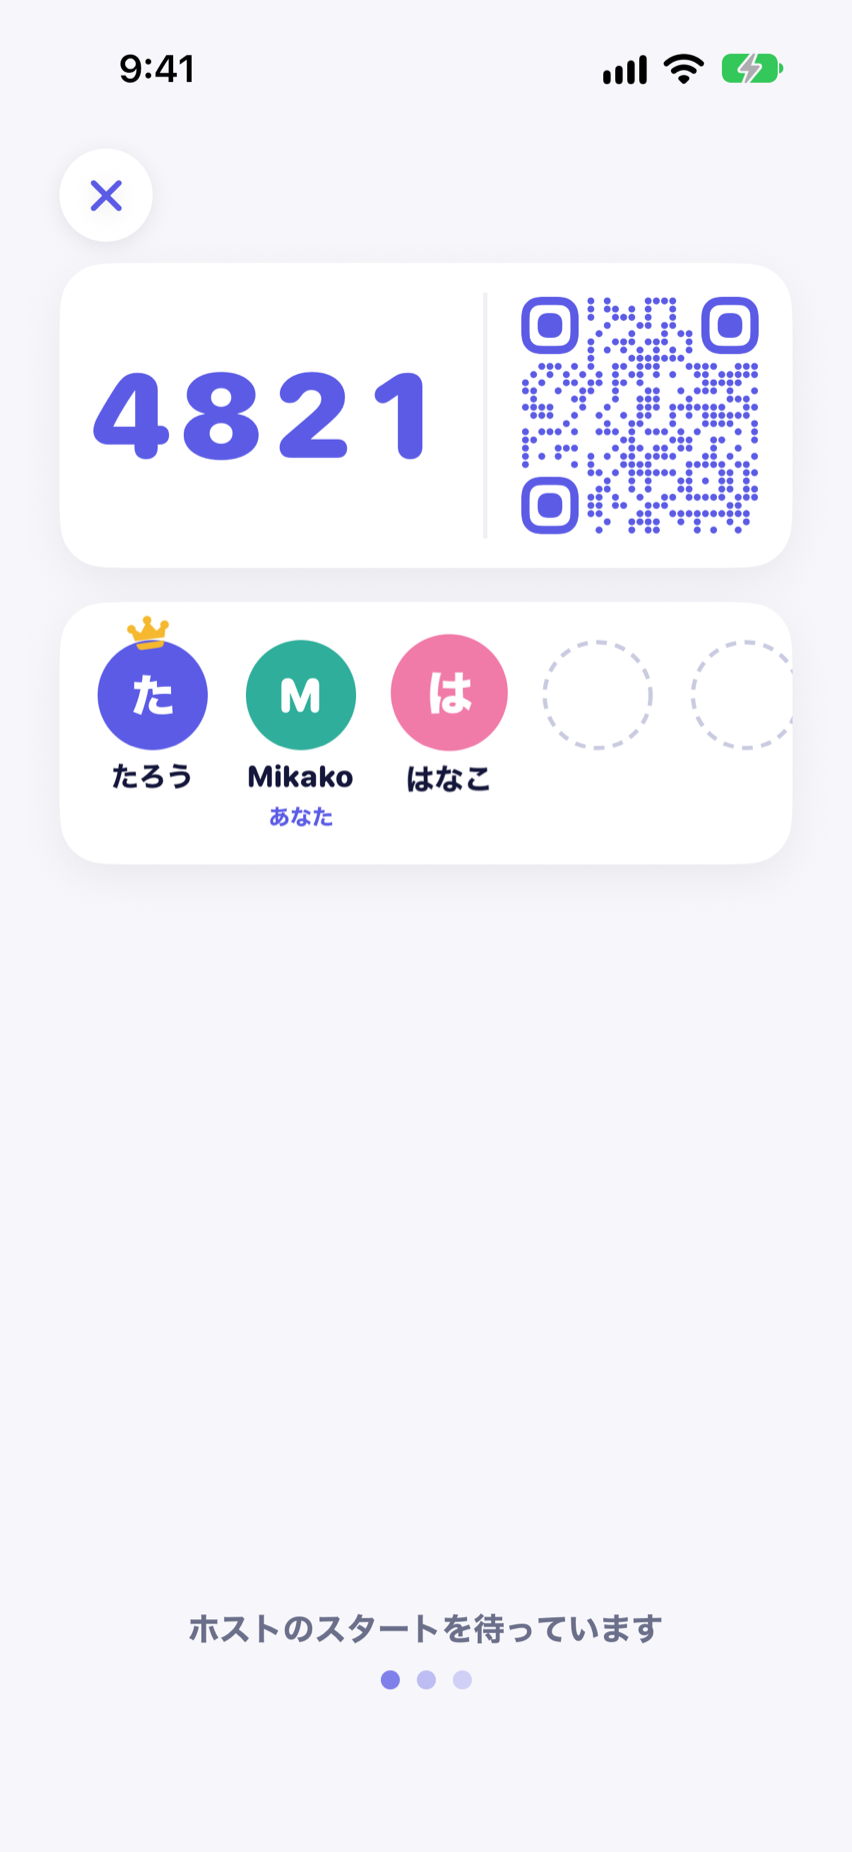
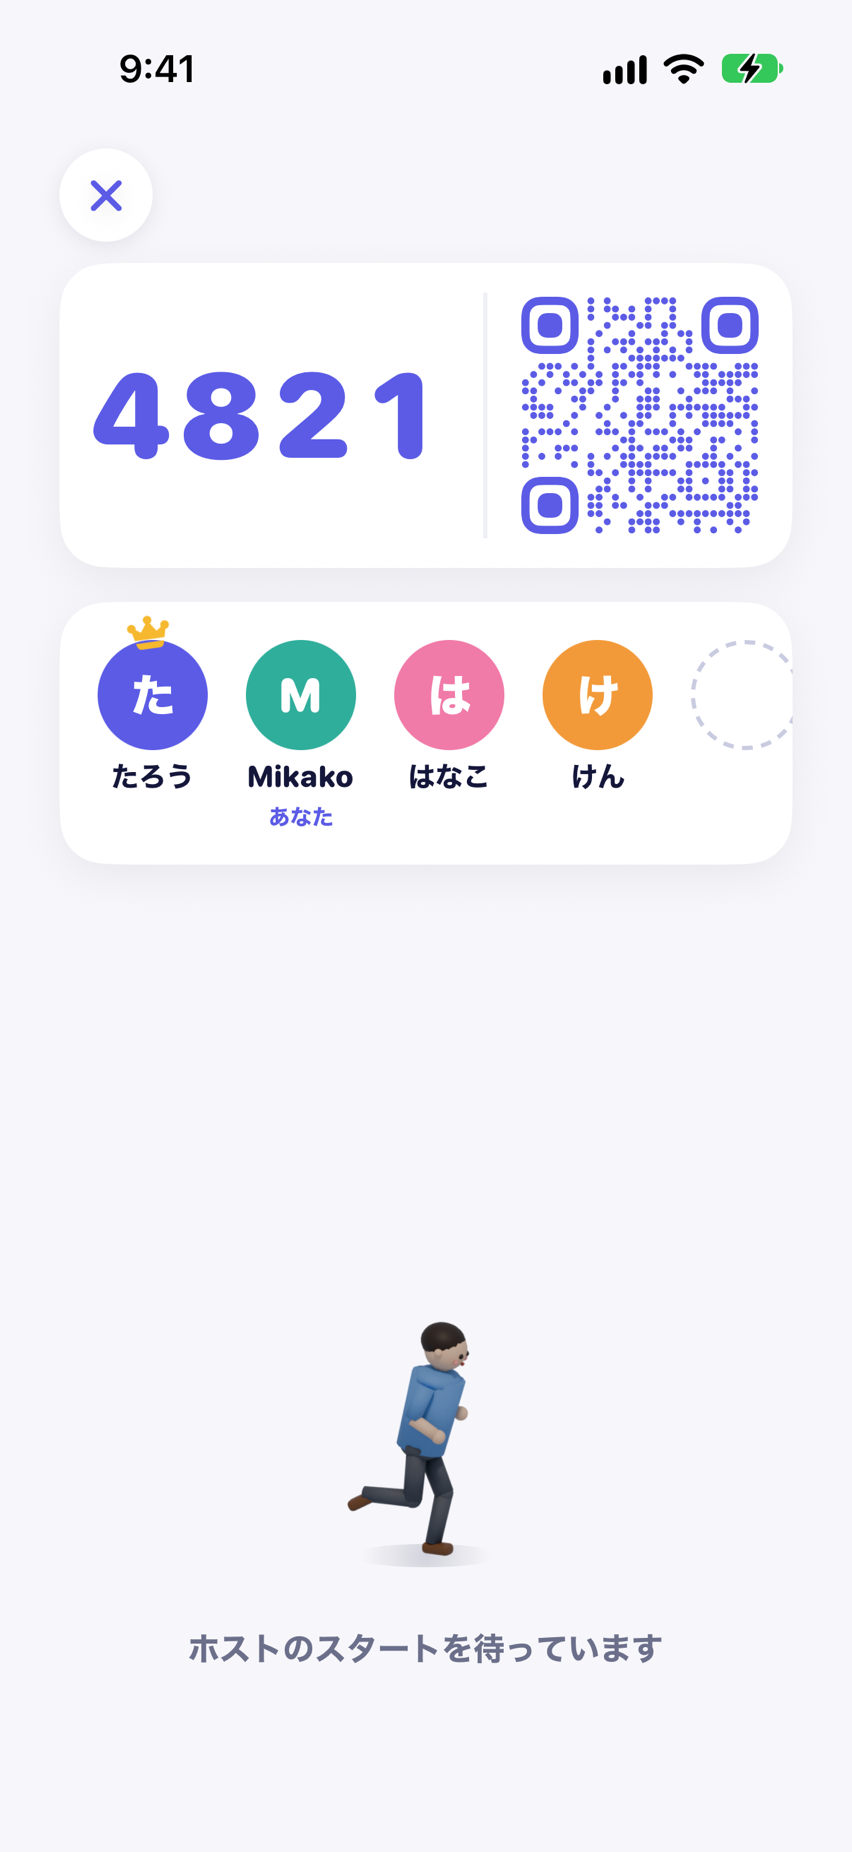
feat(ios): 待合でホストのスタートを待つ参加者に走る人を出す (#133)
## 概要

TestFlight 1.0.1 (4)
をチームで遊んだとき、ホストでない参加者から「待合で何を待っているのか分かりにくい」と声が出ました。参加者の待合には元々「ホストのスタートを待っています」と点
3
つがありましたが、リーダーの判断で、前に作った走る人のアニメーション（`LoadingRunner`）をここに出します。サーバーは変えていません。

## 変えたこと

- 参加者の待合（`LobbyView` の
`HostWaiting`）に、走る人（140pt）を出す。一言「ホストのスタートを待っています」は、ホストの「スタート」のボタンと同じ高さ（64pt）の枠の真ん中に置く。点
3 つは、走る人と同じことを 2 度言うので外した。
- 場面を AI で作っている間は真ん中に大きな走る人（230pt）が出るので、下の走る人は消して一言だけにする（走る人が 2 人並ばない）。
- VoiceOver は一言だけを読み、走る人は読まない。外から `.accessibilityHidden(true)`
を付けても「読み込み中」の label が読み上げの木に残ることが分かったので、`LoadingRunner` に `announces`（既定
true）を足し、false のときは label を付けずに隠す。既存の使い所の振る舞いは変えていない。
- ホストの画面は変えていない。
- 画面設計書 `docs/design/ui/screens/lobby.md`（決定と課題）と、参加者の画像
`docs/design/ui/images/3-lobby-moved.png` の差し替え。UI テスト
`AsobuScreens.testParticipantLobby`。

## 確かめ

- iOS の unit test（NG2622 Mock）181 件。UI テスト `testParticipantLobby` を
iPhone SE・17 Pro・18 Pro Max で。
- 3 機種の参加者の待合で、参加者の一覧と重ならず、スクロールしないこと。
- 実装に関わっていないサブエージェントのレビュー（blocking 0）。

## 調べて分かったこと（この PR では直さない）

-
難易度はホストの端末の中だけにあり、参加者が初めて見るのは結果のあとの振り返り。部屋の状態に項目を足すと、配った古い版のアプリが部屋の状態ごと読めなくなる（`RoomMessage`
が `additionalProperties: false`）。待合に出すなら、別の種類のメッセージを足す形にする（`lobby.md`
の課題に書いた）。ラウンドの導入に出すのは、場面の配置に難易度があるので小さな直しで済む。
- iPhone SE で場面を AI で作っている間、表示が下で切れる（前から。本番は場面の生成を止めている）。

https://claude.ai/code/session_01N5AffQ8pPCSA87nCdgWcsz

diff --git a/ios/NG2622UITests/AsobuScreens.swift b/ios/NG2622UITests/AsobuScreens.swift
@@ -1,6 +1,6 @@
 import XCTest
 
-/// 最初の画面 → ホーム →「あそぶ」→ 待合 →「他のルーム」→ 別の部屋、を Mock で通しで開き、各画面を PNG に書き出す
+/// 最初の画面 → ホーム →「あそぶ」→ 待合 →「他のルーム」→ 別の部屋（参加者の待合）、を Mock で通しで開き、各画面を PNG に書き出す
 /// （見た目の確かめ用）。続けて撮ったコマで、移った先や作った部屋で始めたラウンドの 3D が回っているかも見る。
 /// 書き出し先は環境変数 ASOBU_SHOT_DIR（xcodebuild には TEST_RUNNER_ASOBU_SHOT_DIR で渡す）。無ければ何もしない
 final class AsobuScreens: XCTestCase {
@@ -163,6 +163,53 @@ final class AsobuScreens: XCTestCase {
     for _ in 0..<70 {
       shot(String(format: "fast-f-%05d", Int(Date().timeIntervalSince(moved) * 1000)))
     }
+    finishRound(app)
+    XCTAssert(play.waitForExistence(timeout: 10))
+  }
+
+  /// ホストの待合と、「他のルーム」で移った先の参加者の待合を撮る。参加者の待合では、走る人の下に
+  /// 「ホストのスタートを待っています」が画面の中に出て、VoiceOver は一言だけを読む（走る人の「読み込み中」は読まない）。
+  /// 場面を作っている間は、真ん中の大きな走る人だけになる（下の走る人は消える）。機種ごとに -destination を替えて動かす。
+  /// 画面設計書の 3-lobby.png と同じ人（Mikako・緑）で撮る。参加者の待合は、ホームインジケータが消えるまで 8 秒待ってから撮るので、
+  /// MOCK_HOST_START_DELAY を 12 以上にしてビルドする（既定の 6 秒では、撮る前に場面を作り始めて止まる）
+  @MainActor
+  func testParticipantLobby() throws {
+    guard outDir != nil else { throw XCTSkip("ASOBU_SHOT_DIR が無いので撮らない") }
+    let app = XCUIApplication()
+    app.launchArguments += ["-player.name", "Mikako", "-player.color", String(0x2FAE9B)]
+    app.launch()
+    let play = app.buttons["あそぶ"]
+    XCTAssert(play.waitForExistence(timeout: 20))
+    sleep(2)
+    play.tap()
+    XCTAssert(app.buttons["スタート"].waitForExistence(timeout: 20))
+    sleep(6)  // 仮の参加者が入ってくるのを待つ
+    shot("lobby-host")
+
+    app.buttons["他のルーム"].tap()
+    XCTAssert(app.staticTexts["他のルームに入る"].waitForExistence(timeout: 5))
+    for key in ["4", "8", "2", "1"] { app.buttons[key].tap() }
+    let enter = app.buttons["入る"]
+    XCTAssert(enter.waitForExistence(timeout: 10))
+    enter.tap()
+
+    let waiting = app.staticTexts["ホストのスタートを待っています"]
+    XCTAssert(waiting.waitForExistence(timeout: 10))
+    XCTAssert(app.staticTexts["他のルームに入る"].waitForNonExistence(timeout: 5))
+    let loading = app.descendants(matching: .any)["読み込み中"]
+    XCTAssertFalse(loading.exists, loading.exists ? loading.debugDescription : "")
+    XCTAssert(app.windows.firstMatch.frame.contains(waiting.frame))
+    // ほかの参加者が入ってきて、ホームインジケータが消えるのを待つ
+    sleep(8)
+    let generating = app.descendants(matching: .any)["AI が場面を生成中…"]
+    XCTAssertFalse(generating.exists, "撮る前に場面を作り始めた。MOCK_HOST_START_DELAY を 12 以上にしてビルドする")
+    shot("lobby-participant")
+
+    XCTAssert(generating.waitForExistence(timeout: 30))
+    XCTAssert(waiting.exists)
+    XCTAssertFalse(loading.exists, loading.exists ? loading.debugDescription : "")
+    sleep(1)
+    shot("lobby-participant-generating")
     finishRound(app)
     XCTAssert(play.waitForExistence(timeout: 10))
   }

diff --git a/ios/NG2622/Room/LobbyView.swift b/ios/NG2622/Room/LobbyView.swift
@@ -1,6 +1,7 @@
 import SwiftUI
 
 /// 待合。部屋のコードと QR、参加者を見せる。ホストだけが難易度を選び、「スタート」を押せる。
+/// 参加者には、スタートの所に走る人と「ホストのスタートを待っています」を出す。
 /// 選んだシーンは参加者には見せない（ラウンドが始まると全員の画面に出る）。
 /// スタートのあと部屋が場面を AI で作っている間は、全員の画面で選ぶ所が走る人に替わる。退出はそのまま押せる。
 /// ホストは「他のルーム」から、ほかの人の部屋に移れる（参加者には出さない。× で出てから入り直す）
@@ -57,8 +58,8 @@ struct LobbyView: View {
           .disabled(session.isGenerating)
           .padding(.bottom, 30)
       } else {
-        HostWaiting()
-          .frame(height: 64)
+        // 場面を作っている間は、真ん中に大きな走る人が出るので、下の走る人は消して一言だけにする
+        HostWaiting(showsRunner: !session.isGenerating)
           .padding(.bottom, 30)
       }
     }
@@ -270,8 +271,7 @@ private struct ExampleScene: View {
 private struct SceneGenerating: View {
   var body: some View {
     VStack(spacing: 6) {
-      LoadingRunner(size: 230)
-        .accessibilityHidden(true)
+      LoadingRunner(size: 230, announces: false)
       ShimmerText(text: "AI が場面を生成中…")
     }
     .frame(maxWidth: .infinity)
@@ -348,25 +348,28 @@ private struct EmptySeat: View {
   }
 }
 
-/// 参加者が、ホストのスタートを待つあいだの表示
+/// 参加者が、ホストのスタートを待つあいだの表示。走る人（LoadingRunner）の下に一言を出す。
+/// 一言は、ホストの画面の「スタート」と同じ高さ（64pt）の枠の真ん中に置く。
+/// VoiceOver は一言だけを読む（走る人の「読み込み中」は読ませない。LoadingRunner の announces）
 private struct HostWaiting: View {
-  @State private var phase = false
+  /// 走る人を出すか。場面を作っている間は、真ん中に大きな走る人（SceneGenerating）が出るので出さない
+  let showsRunner: Bool
+
+  /// 走る人の大きさ。いちばん低い iPhone SE（高さ 667pt）の参加者の待合でも、参加者の一覧と重ならず、
+  /// スクロールせずに収まる大きさ。コマの上の 1 割ほどは空いている
+  static let runnerSize: CGFloat = 140
 
   var body: some View {
-    VStack(spacing: 10) {
+    VStack(spacing: 0) {
+      if showsRunner {
+        LoadingRunner(size: Self.runnerSize, announces: false)
+          .transition(.opacity)
+      }
       Text("ホストのスタートを待っています")
         .font(Theme.font(16, .heavy))
         .foregroundStyle(Theme.muted)
-      HStack(spacing: 8) {
-        ForEach(0..<3, id: \.self) { i in
-          Circle()
-            .fill(Theme.accent)
-            .frame(width: 9, height: 9)
-            .opacity(phase ? 1 : 0.25)
-            .animation(.easeInOut(duration: 0.6).repeatForever().delay(Double(i) * 0.2), value: phase)
-        }
-      }
+        .frame(height: 64)
     }
-    .onAppear { phase = true }
+    .animation(.easeInOut(duration: 0.3), value: showsRunner)
   }
 }

diff --git a/ios/NG2622/Design/LoadingRunner.swift b/ios/NG2622/Design/LoadingRunner.swift
@@ -7,26 +7,49 @@ struct LoadingRunner: View {
   var size: CGFloat = 220
   /// 1 秒あたりのコマ数。元のモーションキャプチャは 24 コマ（2 歩）で 0.75 秒なので、32 で同じ速さ
   var fps: Double = 32
+  /// VoiceOver に「読み込み中」と読ませるか。そばに待っている理由の一言があるときは false にする。
+  /// 「読み込み中」の label を付けたままだと、外から accessibilityHidden を付けても読み上げに残る（UI テストで確かめた）ので、
+  /// 読ませないときは label を付けずに隠す
+  var announces = true
+
+  @Environment(\.accessibilityReduceMotion) private var reduceMotion
 
   private static let frames: [UIImage] = (0..<24).compactMap { UIImage(named: String(format: "runner_%02d", $0)) }
 
   var body: some View {
-    TimelineView(.animation) { ctx in
-      let i = Int(ctx.date.timeIntervalSinceReferenceDate * fps) % max(Self.frames.count, 1)
-      ZStack {
-        // 足もとの影。コマの下から 8 % あたりが床
-        Ellipse()
-          .fill(RadialGradient(colors: [Theme.ink.opacity(0.16), .clear], center: .center, startRadius: 0, endRadius: size * 0.22))
-          .frame(width: size * 0.5, height: size * 0.08)
-          .offset(y: size * 0.415)
-        if Self.frames.indices.contains(i) {
-          Image(uiImage: Self.frames[i])
-            .resizable()
-            .interpolation(.high)
-        }
-      }
-      .frame(width: size, height: size)
+    if announces {
+      running.accessibilityLabel("読み込み中")
+    } else {
+      running.accessibilityHidden(true)
     }
-    .accessibilityLabel("読み込み中")
+  }
+
+  /// 「視差効果を減らす」が on なら走らせず、最初のコマで止める（待合では長く出続けるため）。
+  /// 走らせるときも、描き直しはコマが替わるとき（1 秒に fps 回）だけにする
+  @ViewBuilder private var running: some View {
+    if reduceMotion {
+      pose(0)
+    } else {
+      TimelineView(.animation(minimumInterval: 1 / fps)) { ctx in
+        pose(Int(ctx.date.timeIntervalSinceReferenceDate * fps) % max(Self.frames.count, 1))
+      }
+    }
+  }
+
+  /// i 番目のコマと、足もとの影
+  private func pose(_ i: Int) -> some View {
+    ZStack {
+      // 足もとの影。コマの下から 8 % あたりが床
+      Ellipse()
+        .fill(RadialGradient(colors: [Theme.ink.opacity(0.16), .clear], center: .center, startRadius: 0, endRadius: size * 0.22))
+        .frame(width: size * 0.5, height: size * 0.08)
+        .offset(y: size * 0.415)
+      if Self.frames.indices.contains(i) {
+        Image(uiImage: Self.frames[i])
+          .resizable()
+          .interpolation(.high)
+      }
+    }
+    .frame(width: size, height: size)
   }
 }

diff --git a/docs/design/ui/screens/lobby.md b/docs/design/ui/screens/lobby.md
@@ -4,12 +4,12 @@ title = "待合（ロビー）"
 group = "room"
 order = 30
 image = ["3-lobby.png", "3-lobby-moved.png"]
-status = "確定（実装: #116）"
-status_note = "2026-11-13 に確定。難易度を選んでスタートする所までは実装済み（feat/eiken-switch）。ホストの「他のルーム」の段と移り方は PR #116（feat/home-asobu）。画像は #116 のアプリ（Mock）のスクリーンショット。"
+status = "確定（実装: #116、参加者の待つ表示は #133）"
+status_note = "2026-11-13 に確定。難易度を選んでスタートする所までは実装済み（feat/eiken-switch）。ホストの「他のルーム」の段と移り方は PR #116（feat/home-asobu）。参加者の待つ表示の走る人は PR #133（feat/lobby-waiting-runner）。画像はアプリ（Mock）のスクリーンショット（参加者の待合は PR #133 のもの）。"
 image_labels = ["ホストの待合（「他のルーム」）", "移った先の待合（参加者）"]
 role = "部屋のコードと参加者を見せる。ホストだけが難易度（英検の級）を選んでスタートする。場面はスタートまで見せない。"
 main_actions = ["（ホスト）「他のルーム」で、ほかの人の部屋に移る", "（ホスト）難易度を選ぶ（かんたん＝英検3級・ふつう＝準2級・むずかしい＝2級）", "（ホスト）「スタート」で全員のプレイを始める", "（参加者）ホストのスタートを待つ", "（全員）場面を AI で作っている間は待つ（退出はできる）", "（全員）左上の × で部屋を出る"]
-data_shown = ["部屋のコードと QR", "参加者の一覧と接続の状態（自分に「あなた」、ホストに王冠）", "（ホスト）難易度の選択と、選んだ難易度の例の場面の止めた絵（出題はしない。3D ではなく絵で出す）"]
+data_shown = ["部屋のコードと QR", "参加者の一覧と接続の状態（自分に「あなた」、ホストに王冠）", "（ホスト）難易度の選択と、選んだ難易度の例の場面の止めた絵（出題はしない。3D ではなく絵で出す）", "（参加者）「スタート」の所に、走る人と「ホストのスタートを待っています」"]
 note = "場面の一覧・サムネイル・「おまかせ」は 2026-11-11 に外した。難易度の例の場面は 3D ではなく止めた絵で出す（2026-11-11。待合で 3D を出すと、その後の回転中・録音中に 3D が出なくなる不具合を避けるため）。ホストだけが場面を知って有利になるのを防ぐため、場面は名前も絵もスタートまで見せない。QR は世界観をそろえ、角丸の点・角丸の目印をインディゴの単色で描き、真ん中にアプリのアイコンを置く（2026-10-21。真ん中のアイコンは仮）。真ん中を隠しても読めるよう、誤り訂正レベルを最も高い H にし、点の形は自前で描く必要がある（推測）。"
 entry_points = [
   { from = "home", how = "push", trigger = "あそぶ" },
@@ -28,6 +28,8 @@ exits = [
 - 仮の画面（下書き）に「準備完了」が出ているが、決めていない。参加者が「準備完了」を押す操作を入れるかを決める。（v1 の仮の画面の話。今の画像と実装には「準備完了」は無い）
 - 画像では「ルームコード」、文書では「部屋のコード」と呼んでいる。画面の言葉をどちらにそろえるか。（v1 の仮の画面の話。今の実装は、シートの見出しで「部屋のコード」と呼んでいる）
 - 難易度の札に英検の級（3 級・準 2 級・2 級）を書き添えるか（2026-11-11 時点で未定。v2 の画像には書いていない）。
+- 参加者に、ホストが選んでいる難易度を見せるか（2026-11-13、チームで遊んだときに参加者から出た声。今回は見送り、下の「待つ表示」だけを入れた）。今は難易度はホストの端末の中だけにあり、`start` で初めて部屋に届く。参加者が難易度を知れるのは、結果のあとの振り返りの札（`DifficultyChip`）が初めてで、回転中・録音中・待機・結果発表には出ていない（場面の配置の `difficulty` は回転中の 3D を出すときに端末にある）。待合で見せるなら、ホストが選ぶたびに部屋へ送る新しいメッセージが要る。`room` に欄を足すと、`additionalProperties: false` のため前の版のアプリが `room` ごと読めなくなるので、知らない種類として 1 通ずつ捨てられる別のメッセージにする。
+- iPhone SE（高さ 667pt）では、場面を作っている間の走る人（230pt）の下と「AI が場面を生成中…」が下の表示（ホストは「スタート」、参加者は一言）の上で切れ、スクロールしないと見えない（2026-11-13 に撮って見つけた。ホストも参加者も同じで、下の走る人を足す前からある）。走る人を小さくするか、SE では縮めるかを決める。
 
 ## 改善案
 
@@ -53,3 +55,7 @@ exits = [
 （2026-11-13 に確定。PR #116 で実装）
 
 - 移り方の直し（2026-11-13 に確定、アプリに実装）: 上の「移るとき」は置き換わる。確かめ（ほかの人がいるときだけ）は、待合ではなく「他のルームに入る」のシートの上に出す。新しい部屋に入ってから今の部屋を抜け、入れなければ今の待合のまま、シートに理由を出す（ホームには戻らない）。「他のルーム」の矢印を回る印に替える表示はやめ、入っている間はシートの中に回る印を出す。順番と守りは [`join.md`](./join.md)。
+
+（2026-11-13 に決定。PR #133 で実装）
+
+- 参加者の待つ表示: 参加者の待合の下（ホストの「スタート」の所）は、今の「ホストのスタートを待っています」の上に、場面を作っている間と同じ走る人（`LoadingRunner`）を小さく（140pt）出す。一言の下の点 3 つは、走る人と並べると同じことを 2 度言うので外す。一言は「スタート」と同じ高さ（64pt）の枠の真ん中に置く。140pt は、いちばん低い iPhone SE（667pt）の参加者の待合でも、参加者の一覧と重ならず、スクロールせずに収まる大きさ（17 Pro・18 Pro Max でも撮って確かめた）。場面を作っている間は、真ん中に大きな走る人（230pt）が出るので、下の走る人は消して一言だけにする（走る人を 2 人出さない）。VoiceOver は一言だけを読み、走る人（「読み込み中」）は読ませない（場面を作っている間の大きな走る人も読ませない）。「視差効果を減らす」が on なら、走る人は走らせずに止めた 1 コマにする（場面を作っている間の走る人も同じ）。理由: 参加者の待合は、ホストの難易度の所が空いていて、今は待つ番だと分かりにくかったため（チームで遊んだときの声）。ホストの画面は変えない。
